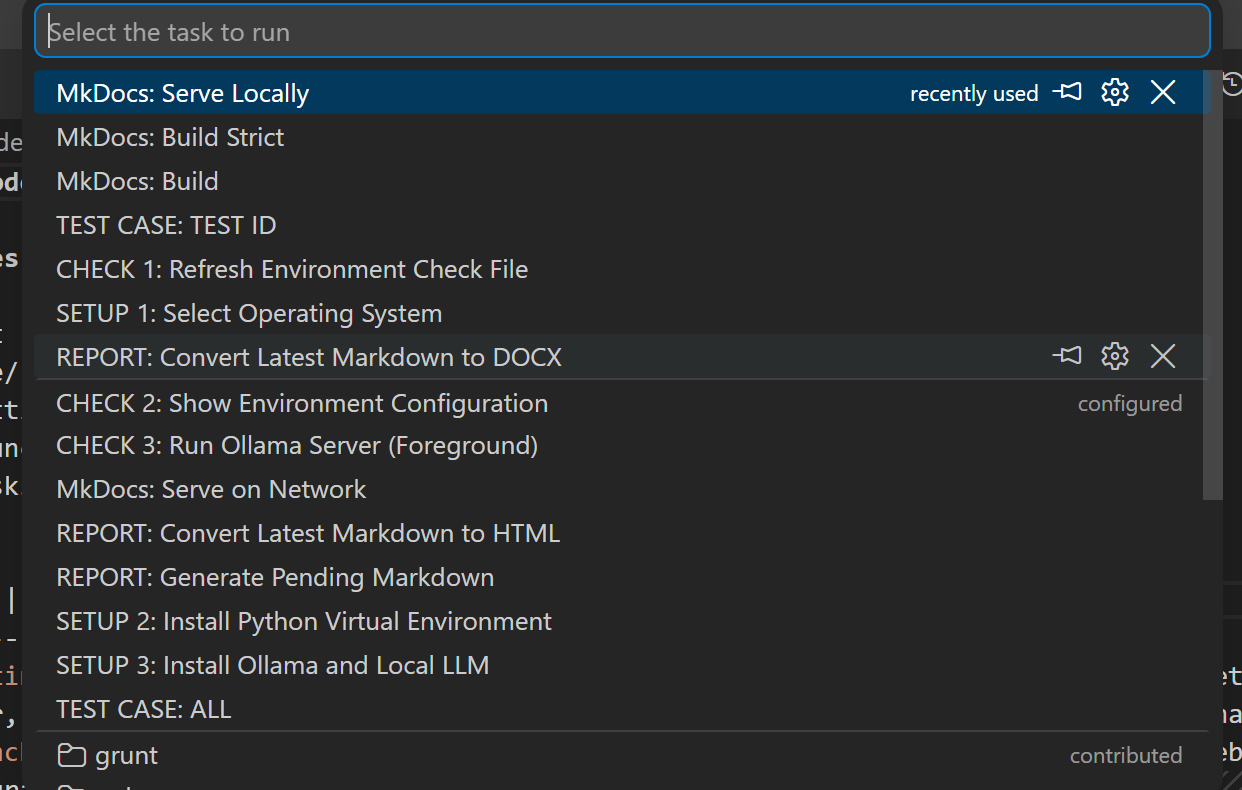
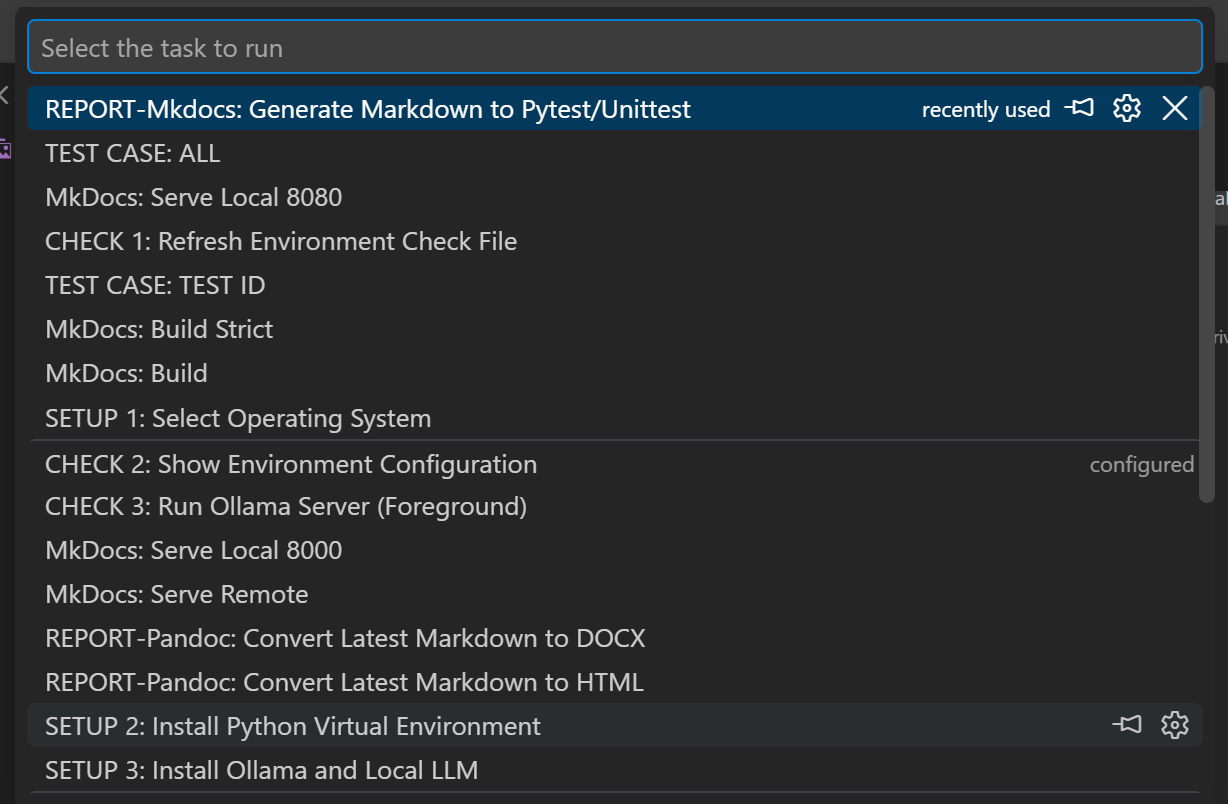
docs: Update VS Code Testing panel image and remove obsolete image

diff --git a/docs/vscode_environment.md b/docs/vscode_environment.md
@@ -114,7 +114,7 @@
 <br/>
 
 
-![VS Code Testing panel](imgs/vscode_testing_01.png)
+![VS Code Testing panel](imgs/vscode_testing_00.png)
 
 <br/>
 
